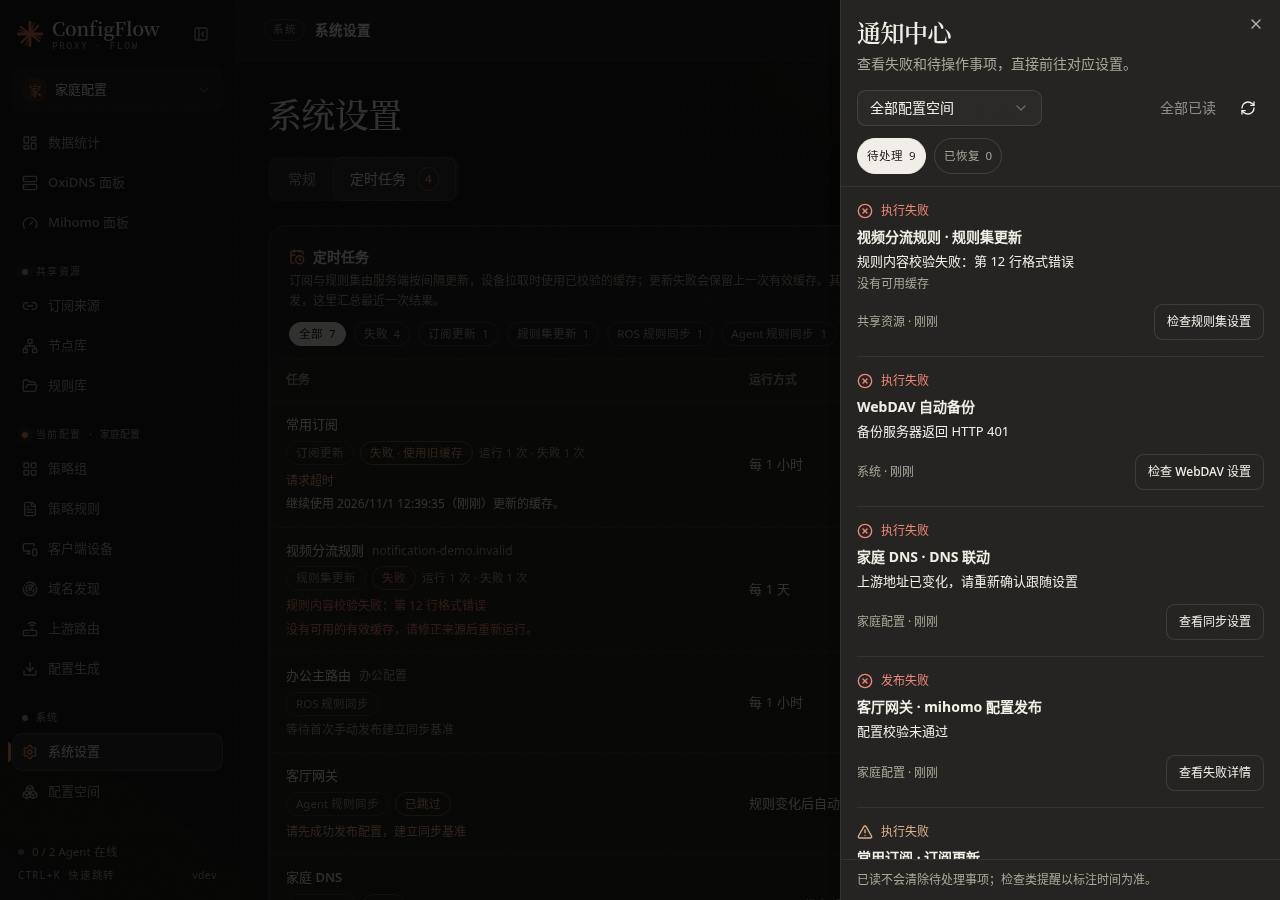
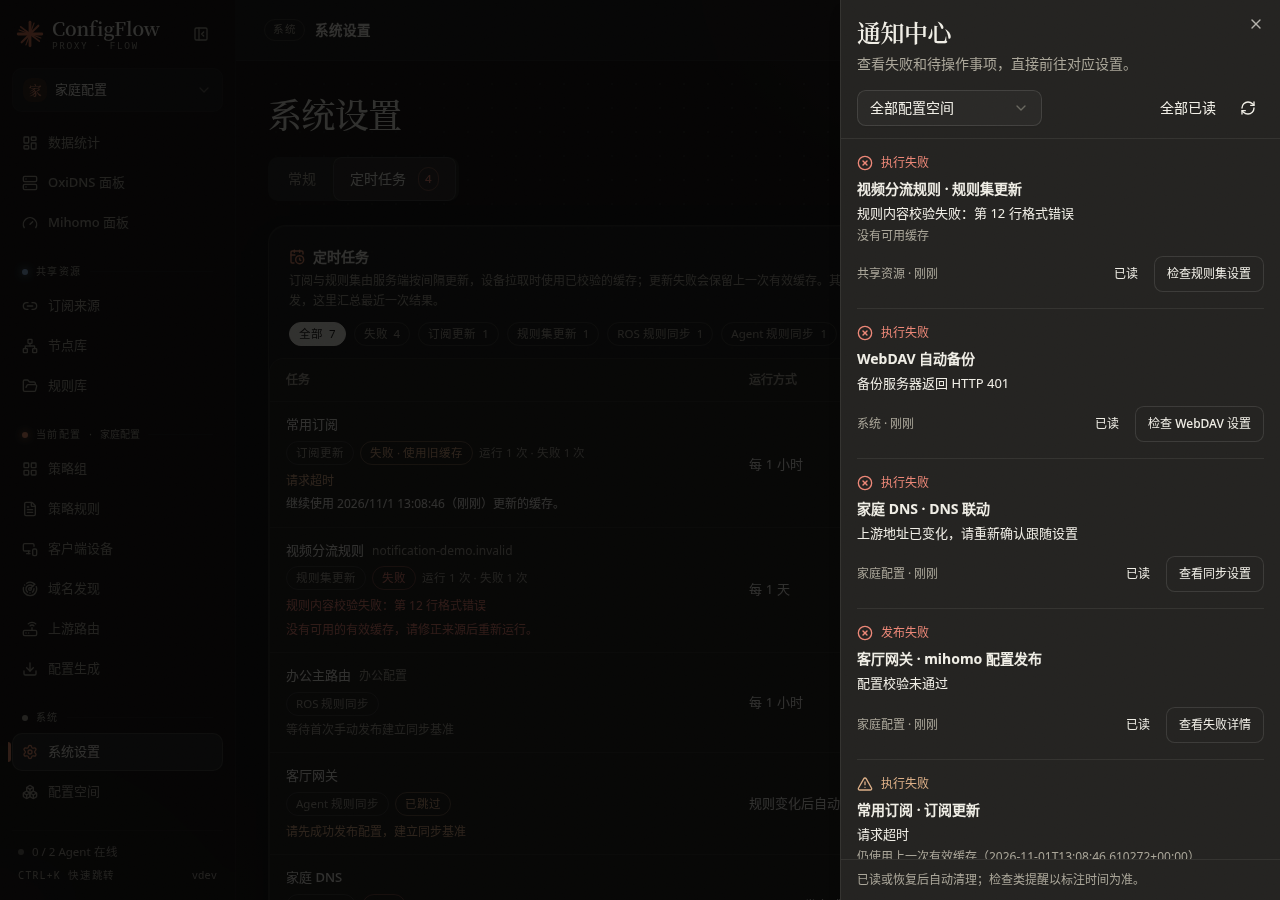
test: verify notification cleanup interactions and refresh screenshots

diff --git a/frontend/tests/notification-center.test.ts b/frontend/tests/notification-center.test.ts
@@ -127,11 +127,14 @@ it('marks only the selected profile and shared notifications as read', async () 
     { ...row, id: 'office', scope: 'profile', profile_id: 'office' },
   ] } } as any)
   await render()
-  document.querySelector<HTMLButtonElement>('[aria-label="通知配置空间"]')!.click()
+  document.querySelector<HTMLButtonElement>('[aria-label="通知配置空间"]')!
+    .dispatchEvent(new KeyboardEvent('keydown', { key: 'ArrowDown', bubbles: true }))
   await flushPromises()
   const option = [...document.querySelectorAll<HTMLElement>('[role="option"]')].find(item => item.textContent?.includes('家庭配置与共享事项'))!
-  option.click()
+  option.focus()
+  option.dispatchEvent(new KeyboardEvent('keydown', { key: 'Enter', bubbles: true }))
   await flushPromises()
+  expect(document.querySelectorAll('[data-notification]')).toHaveLength(2)
   button('全部已读').click()
   await flushPromises()
   expect(notificationsApi.read).toHaveBeenCalledWith({ [row.id]: 'v1', home: 'v1' })

diff --git a/frontend/src/components/shell/NotificationCenter.vue b/frontend/src/components/shell/NotificationCenter.vue
@@ -133,7 +133,7 @@ onUnmounted(() => { disposed = true; controller?.abort(); clearInterval(timer); 
             <span class="min-w-0 break-words text-xs text-muted-foreground">{{ scopeLabel(item) }} · {{ when(item) }}</span>
             <div class="flex flex-wrap items-center gap-1">
               <Button variant="ghost" size="sm" class="min-h-9 text-xs max-sm:min-h-11" aria-label="标为已读" :disabled="reading" @click="read([item])">已读</Button>
-              <Button variant="outline" size="sm" class="min-h-9 shrink-0 text-xs max-sm:min-h-11" :disabled="navigating" @click="go(item)">{{ item.target.label }}</Button>
+              <Button variant="outline" size="sm" class="min-h-9 shrink-0 text-xs max-sm:min-h-11" :disabled="navigating || reading" @click="go(item)">{{ item.target.label }}</Button>
             </div>
           </div>
         </article>

diff --git a/doc/README.md b/doc/README.md
@@ -70,7 +70,7 @@
 | 页面 | 你可以做什么 |
 | --- | --- |
 | [系统设置](manual/system-settings.md) | 改服务地址和端口，备份、恢复、更新组件、查看自动任务 |
-| [通知中心](manual/notifications.md) | 汇总失败和待操作事项，直接定位对应设置，查看恢复状态 |
+| [通知中心](manual/notifications.md) | 汇总失败和待操作事项，直接定位对应设置，已读或恢复后自动清理 |
 | [连接 AI 工具（MCP）](manual/mcp.md) | 复制连接地址、填写访问令牌，让 AI 工具读取或管理配置 |
 | [配置空间](manual/profiles.md) | 分开管理家庭、办公等方案，复制、导入、调整设备归属 |
 | [Agent](manual/agents.md) | 管理设备、发送配置、检查状态、更新和查看发布记录 |
